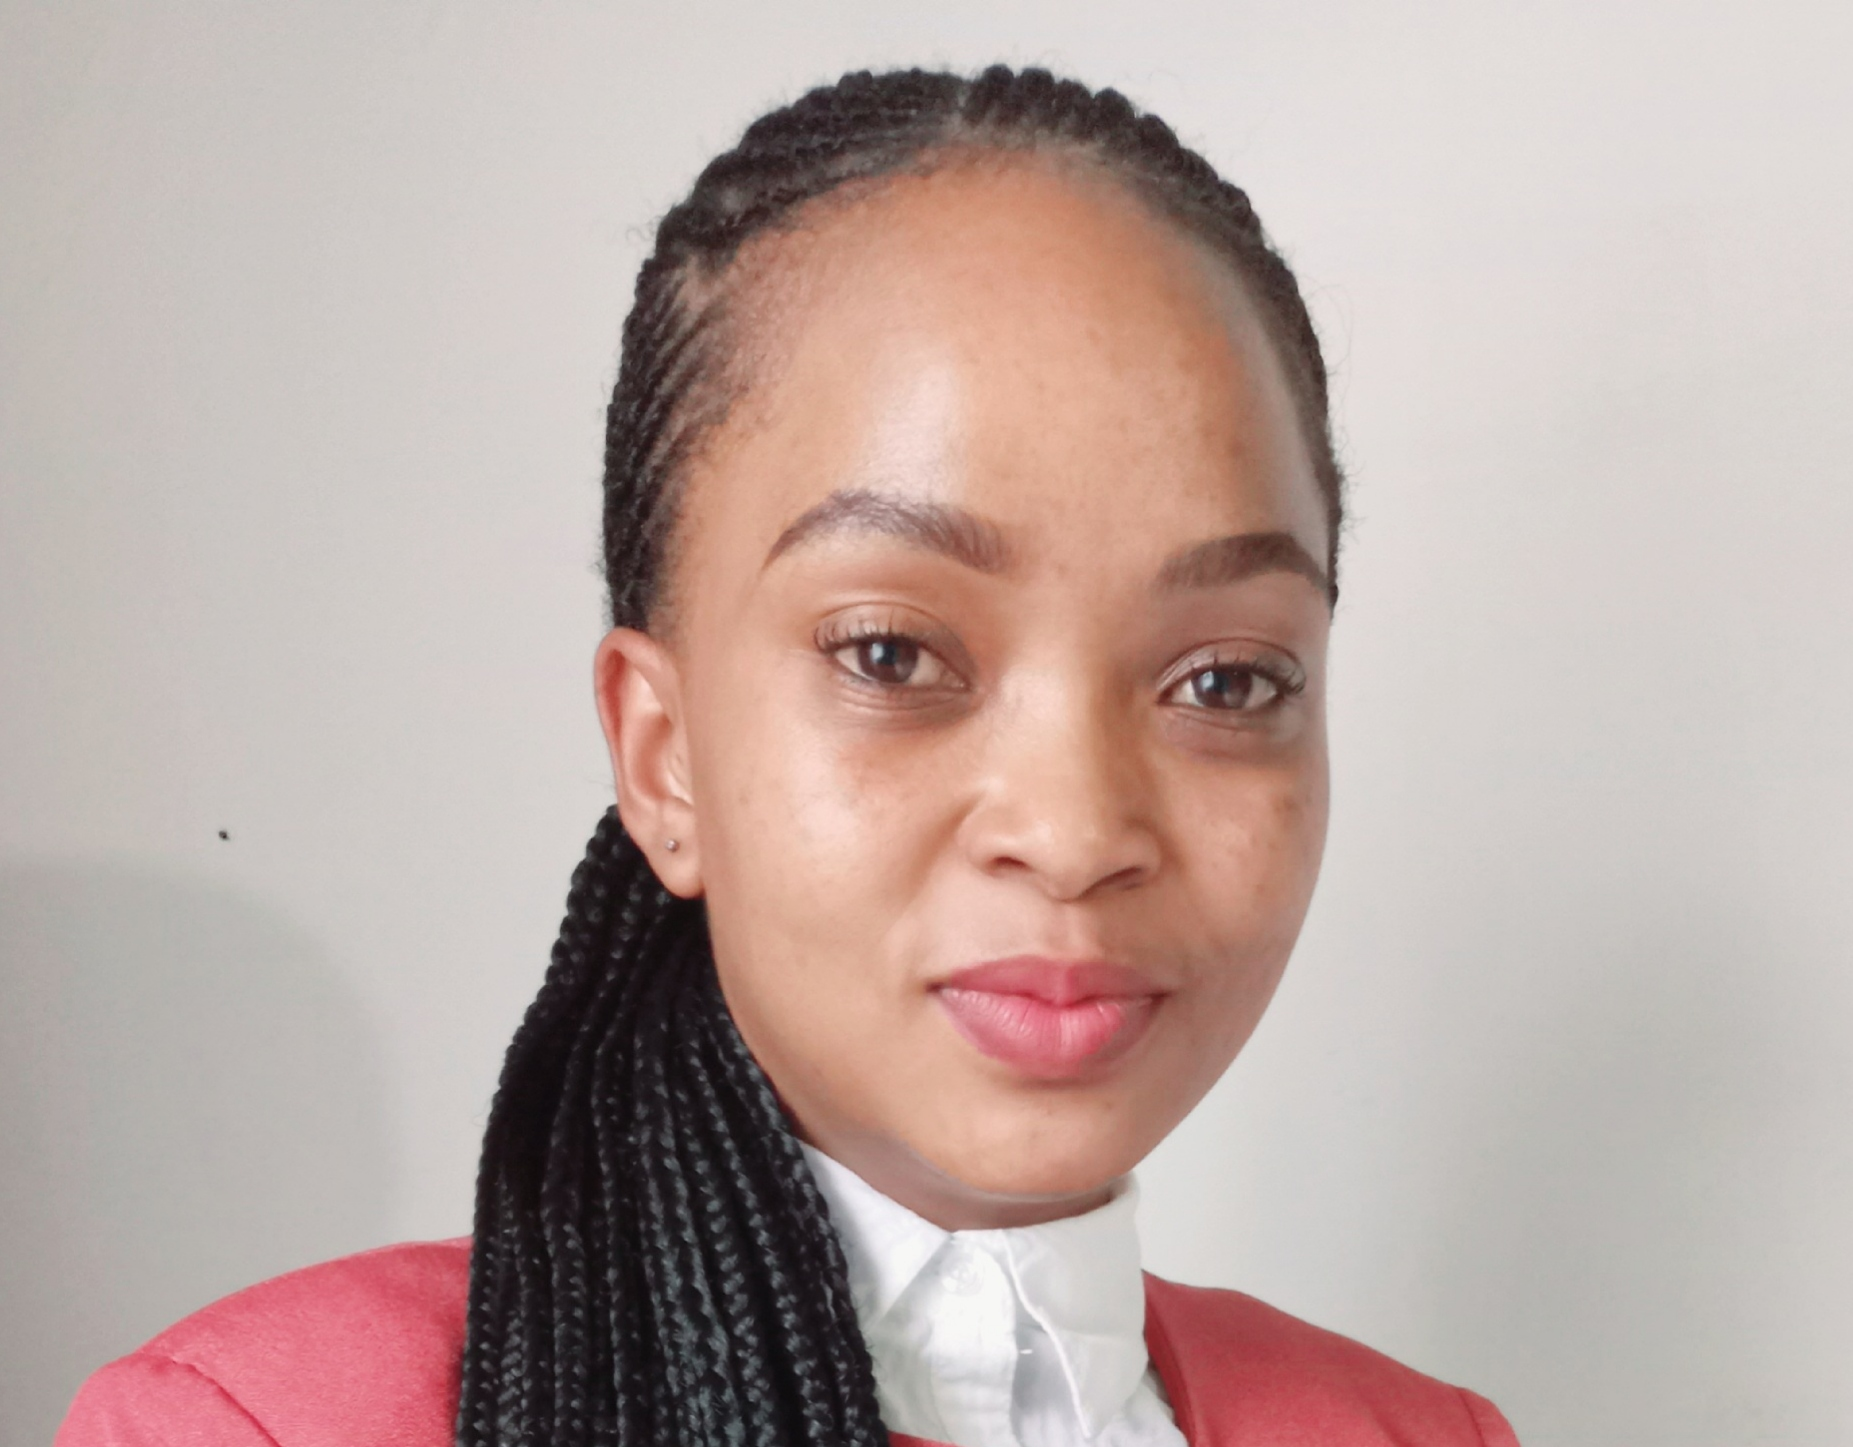
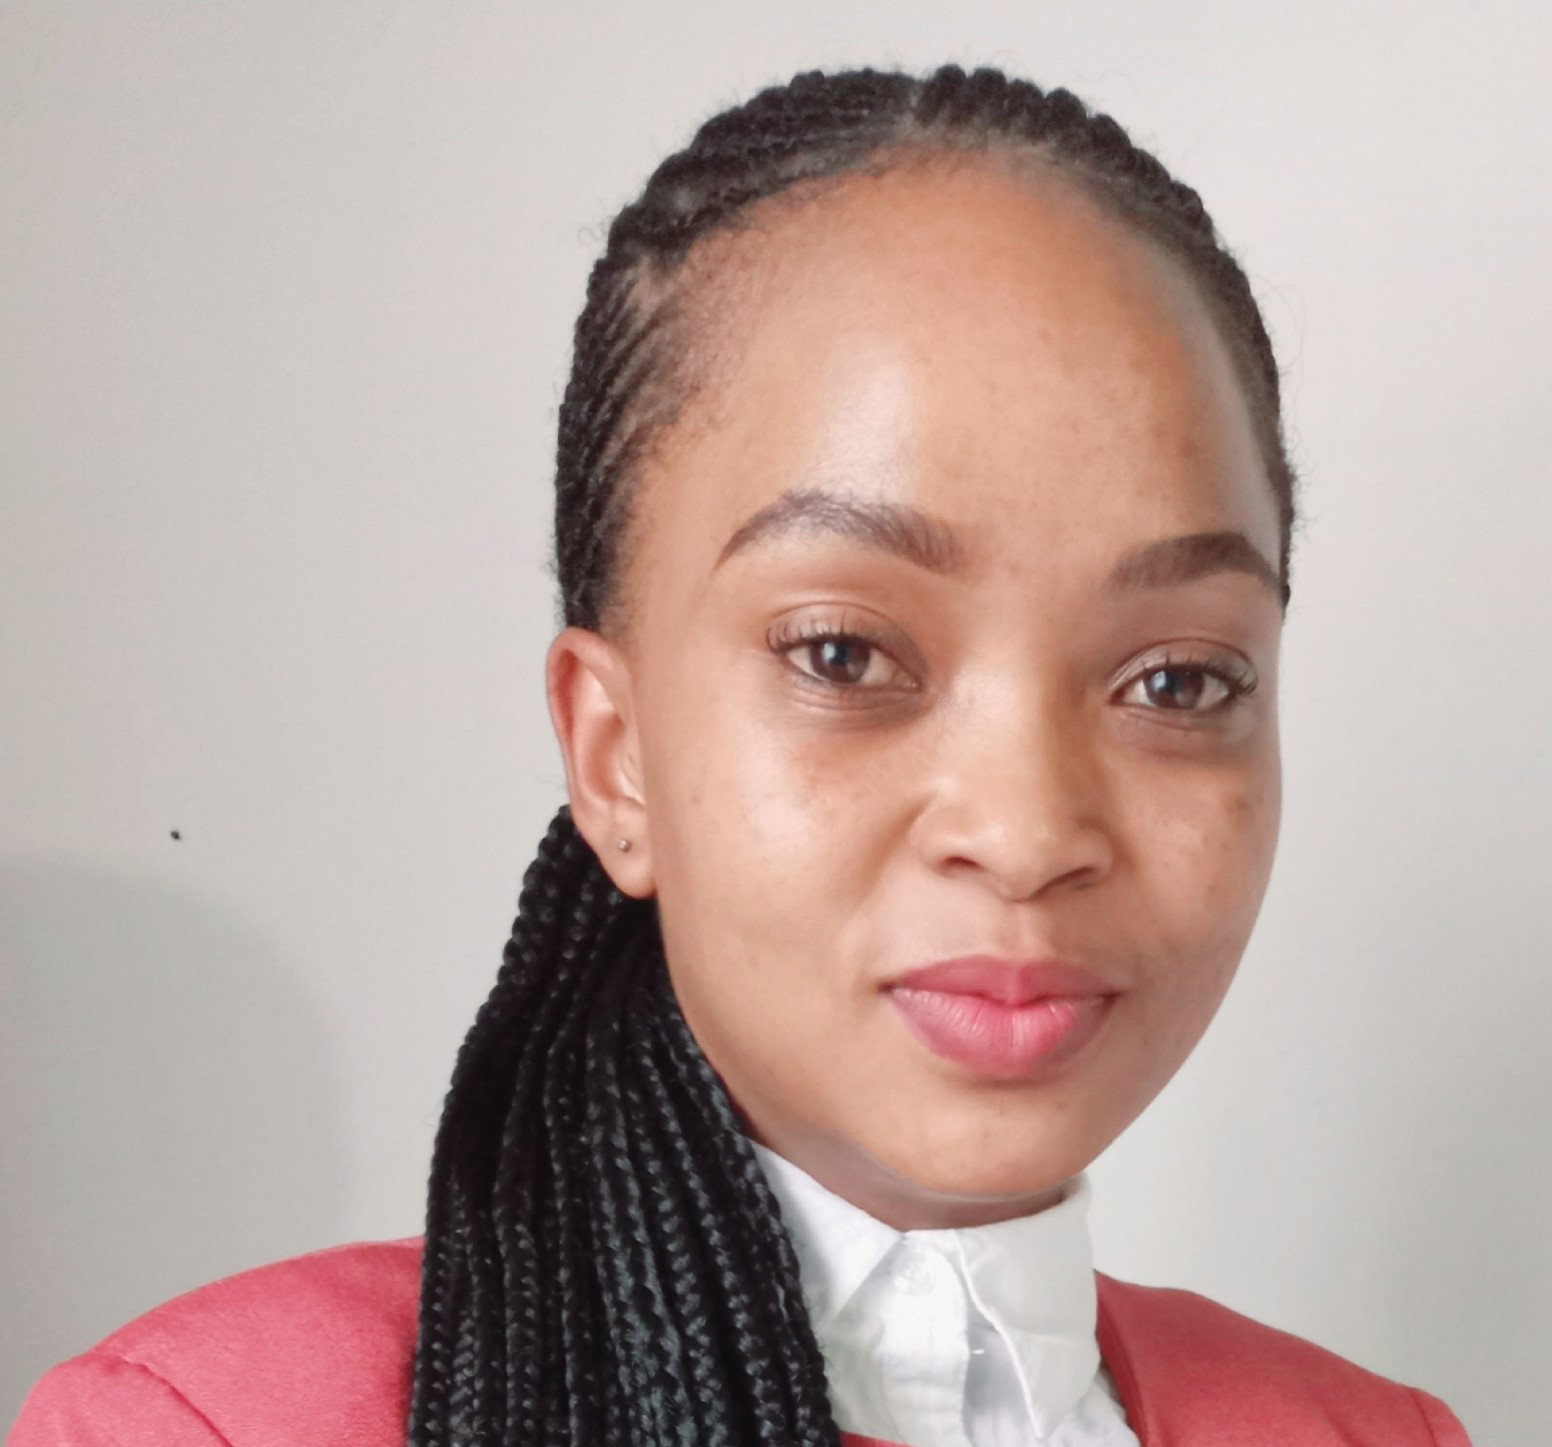
added pictures

diff --git a/resume7-2.html b/resume7-2.html
@@ -7,16 +7,22 @@
     <title>My digital resume</title>
     <link rel="stylesheet" href="style_sheet.css">
 </head>
+    <style>
+        body {
+            background-image: url(scott-gummerson-Zt1j8RuCcqo-unsplash.jpg);
+        }
 
+    </style>
 <body>
+
     <header>
         <picture>
-            <sourcemedia="(max-width: 650px)"srcset="images/>
-            <sourcemedia="(max-width: 1000px)"srcset="images/person-on-a-bridge-med.jpg">
-            <imgsrc="images/person-on-a-bridge-large.jpg"alt="person on a bridge">
+            <sourcemedia="(max-width: 650px)"srcset="./images/faceshot.jpg>
+            <sourcemedia="(max-width: 1000px)"srcset="./images/shouldershot.jpg">
+            <imgsrc="images/halfbodyshot.jpg"alt="headshot"width="200" height="170">
         </picture>
-        <img src="https://codespace-edu.github.io/Intro-to-Web-July21-Resume/images/headshot.jpeg" alt="Image"
-            width="200" height="170">
+        
+            
         <h1 id="h1">Olebogeng Rasebitse</h1>
         <p id="my_p_tag">Introductory personal statement.</p>
 

diff --git a/style_sheet.css b/style_sheet.css
@@ -14,7 +14,7 @@ a {
    color: #303641;
 }
 
-img {
+picture {
    border-radius:  50%;
    width: 180px;
 }
